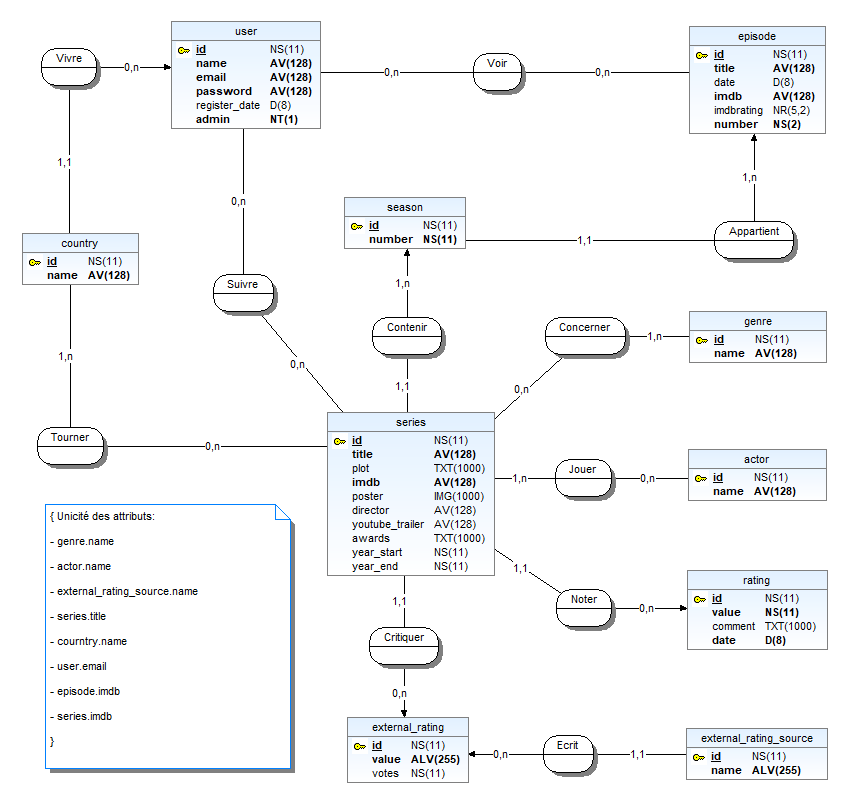
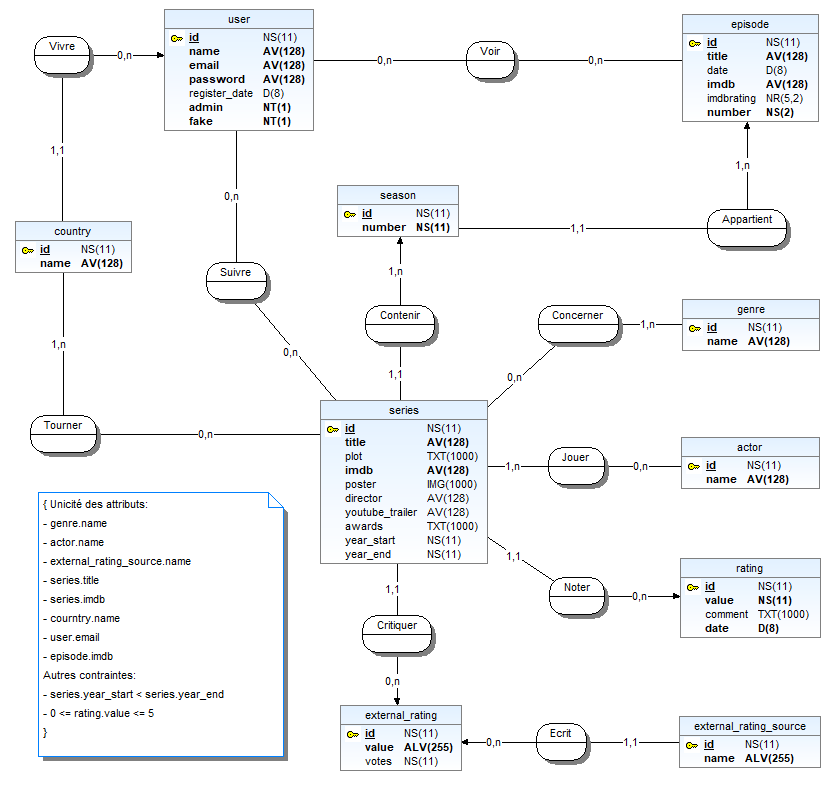
MAJ bd et markdown fait

diff --git a/Documents/DocumentationBD.md b/Documents/DocumentationBD.md
@@ -199,7 +199,10 @@ Voici le schéma MCD de la base :
     - **id** : clé primaire.
     - **series_id** : clé étrangère faisant référence à _**series.id**_.
     - **user_id** : clé étrangère faisant référence à _**user.id**_.
+    -  **value** : doit être compris entre 0 et 5 inclus.
+    - Unicité du couple (**series_id**,**user_id**)
     - Tous les attributs sont obligatoires sauf **comment**.
+    
 
     ---
 
@@ -260,6 +263,7 @@ Voici le schéma MCD de la base :
     - **register_date** : date de création du compte. _**(datetime)**_
     - **admin** : 1 si l'utilisateur est admin sinon 0. _**(tinyint)**_
     - **country_id** : identifiant du pays de l'utilisateur. _**(int)**_
+    - **fake** : 1 si l'utilisateur est généré par un script sinon 0 _**(tinyint)**_
     
     _**Contraintes :**_
 
